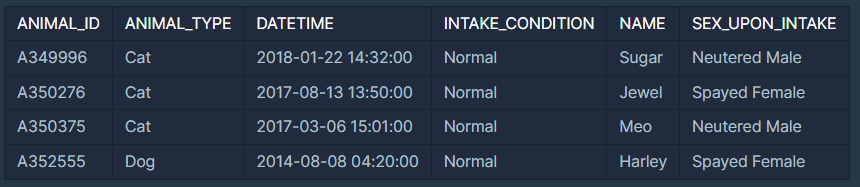
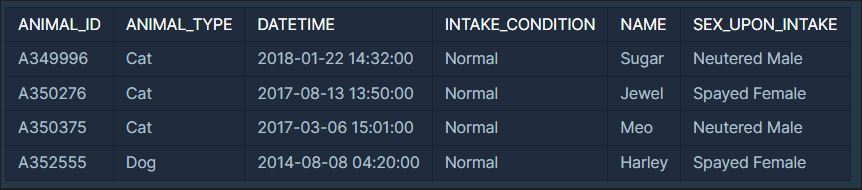
commit

diff --git a/codingtest-pro_sql_1.html b/codingtest-pro_sql_1.html
@@ -229,7 +229,7 @@ into the {body} of the default.hbs template -->
 
 <p>동물 보호소에 들어온 모든 동물의 정보를 ANIMAL_ID순으로 조회하는 SQL문을 작성해주세요. (SQL을 실행하면 다음과 같이 출력되어야 합니다.)</p>
 
-<p><img src="\post_images\codingtest\pro1_sql_2.PNG" /></p>
+<p><img src="\post_images\codingtest\pro1_sql_2.JPG" /></p>
 
 <ul>
   <li><strong>풀이 방법</strong></li>
